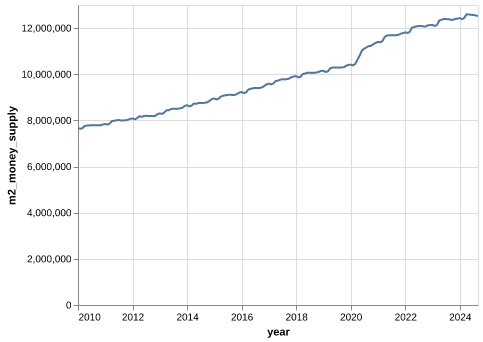
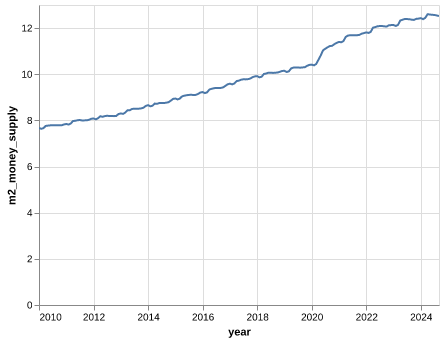
updating file

diff --git a/data/sources.md b/data/sources.md
@@ -7,3 +7,9 @@
 - Unemployment rate from [https://data.worldbank.org/indicator/SL.UEM.TOTL.NE.ZS?locations=JP](https://data.worldbank.org/indicator/SL.UEM.TOTL.NE.ZS?locations=JP) found in _unemp_r.csv_
 - Real estate price index from [https://fred.stlouisfed.org/series/QJPN628BIS](https://fred.stlouisfed.org/series/QJPN628BIS) found in _real_est_p.csv_
 - Monetary base from [https://www.boj.or.jp/en/statistics/boj/other/mb/index.htm](https://www.boj.or.jp/en/statistics/boj/other/mb/index.htm) found in _monetary_base.csv_
+
+## Data cleaning:
+
+- GDP source numbers divided by 1000000000.
+- Money supply (M2) divided by 1000000.
+- Monetary base divided by 1000000.
